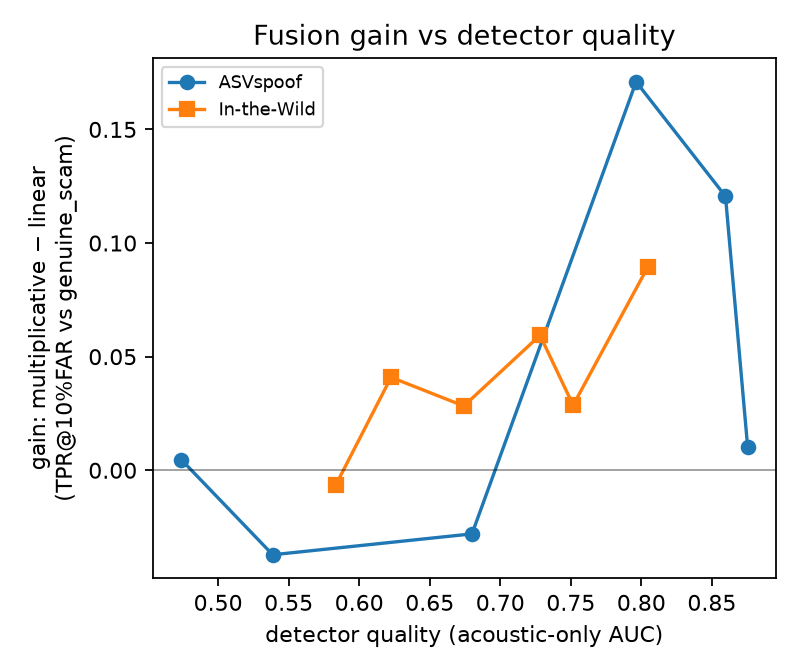
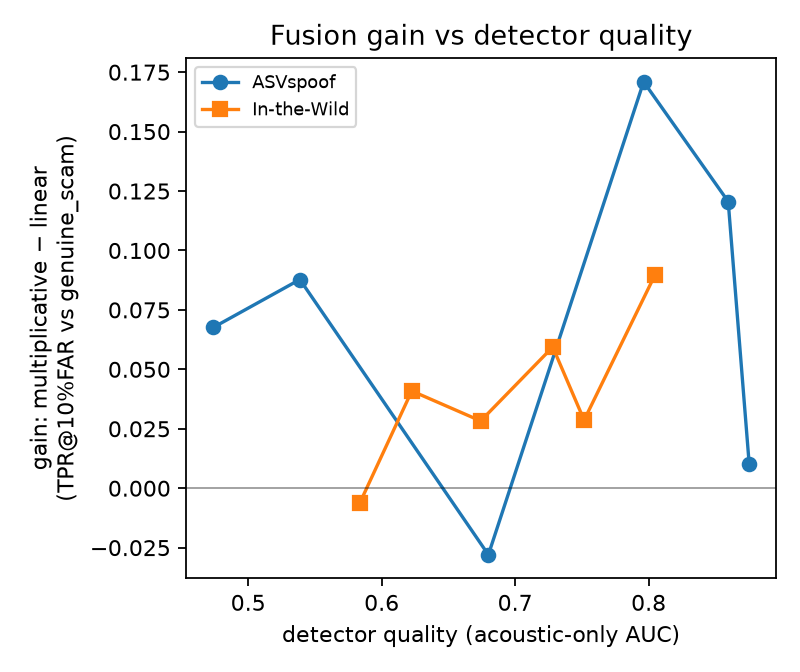
Fix AUC tie-handling bug found in code review; re-render affected numbers
Critical (review): auc() used sequential ranks, not tie-averaged -> understated AUC where scores tie. Fixed with averaged ranks (no scipy). Only intent_only AUC moved (0.828->0.889); acoustic/parallel/bayesian, all TPRs, and claim-2 (2x2) unchanged (verified). Re-rendered RESULTS.md/PAPER.md/main.tex + figures. Also: tpr_at_far empty-neg guard; stale docstrings (genuine_urgent->genuine_scam, pairing probs); regression tests for auc(ties)/tpr_at_far/perfect-sep (11 pass). F2 m2 broken-regime rows updated (refit alpha at chance).

diff --git a/experiments/stage2_roc.py b/experiments/stage2_roc.py
@@ -9,7 +9,7 @@ so we score each CALL as a whole and compare methods fairly:
 
 Fair comparison: out-of-fold scoring (2-fold, no leakage), then on the pooled
 out-of-fold scores report AUC and TPR at a MATCHED false-alarm rate (on the
-genuine_urgent hard negatives, and on all negatives), each with bootstrap 95% CIs.
+genuine_scam hard negatives, and on all negatives), each with bootstrap 95% CIs.
 """
 import json, numpy as np
 from voiceguard.intent import build_pools
@@ -20,17 +20,36 @@ B = 2000
 RNG = np.random.default_rng(0)
 
 
+def _avg_ranks(x):
+    """1-indexed ranks with ties averaged (required for a correct Mann-Whitney/AUC;
+    plain sort-order ranks bias AUC low whenever scores tie)."""
+    order = np.argsort(x, kind="mergesort")
+    sx = x[order]
+    ranks_sorted = np.empty(len(x), float)
+    i = 0
+    while i < len(x):
+        j = i
+        while j < len(x) and sx[j] == sx[i]:
+            j += 1
+        ranks_sorted[i:j] = (i + j + 1) / 2.0   # mean of ranks (i+1 .. j)
+        i = j
+    out = np.empty(len(x), float)
+    out[order] = ranks_sorted
+    return out
+
+
 def auc(scores, pos, neg):
     sp, sn = scores[pos], scores[neg]
     if not len(sp) or not len(sn):
         return float("nan")
-    order = np.argsort(np.concatenate([sp, sn]), kind="mergesort")
-    ranks = np.empty(len(order)); ranks[order] = np.arange(1, len(order) + 1)
+    ranks = _avg_ranks(np.concatenate([sp, sn]))
     r_pos = ranks[:len(sp)].sum()
     return (r_pos - len(sp) * (len(sp) + 1) / 2) / (len(sp) * len(sn))
 
 
 def tpr_at_far(scores, pos, neg, far):
+    if not np.any(neg):
+        return float("nan")
     thr = np.quantile(scores[neg], 1 - far)
     return (scores[pos] > thr).mean()
 

diff --git a/tests/test_voiceguard.py b/tests/test_voiceguard.py
@@ -3,6 +3,8 @@ from voiceguard.simulate import generate_dataset
 from voiceguard.fusion import running_mean, adaptive_fire, bayesian_fire, parallel_fire
 from voiceguard.evaluate import first_true, evaluate, tune
 from voiceguard.realsignals import align_to_timeline, build_matrices, RealCall
+from experiments.stage2_roc import auc, tpr_at_far
+import math
 
 
 def test_running_mean():
@@ -62,6 +64,25 @@ def test_build_matrices_shapes():
     acoustic, intent, is_clone, is_scam, call_type = build_matrices(calls, T=8)
     assert acoustic.shape == intent.shape == (1, 8)
     assert is_clone[0] and is_scam[0]
+
+
+def test_auc_handles_ties():
+    # positives [1,2], negatives [1,3]: tie-averaged AUC = 0.375 (sequential-rank bug = 0.25).
+    s = np.array([1.0, 2.0, 1.0, 3.0])
+    pos = np.array([True, True, False, False])
+    assert abs(auc(s, pos, ~pos) - 0.375) < 1e-9
+
+
+def test_auc_perfect_separation():
+    s = np.array([2.0, 3.0, 0.0, 1.0])
+    pos = np.array([True, True, False, False])
+    assert auc(s, pos, ~pos) == 1.0
+
+
+def test_tpr_at_far_empty_negatives_is_nan():
+    s = np.array([0.9, 0.8])
+    pos = np.array([True, True])
+    assert math.isnan(tpr_at_far(s, pos, np.array([False, False]), 0.1))
 
 
 def test_tune_respects_far_budget():

diff --git a/experiments/stage2_run.py b/experiments/stage2_run.py
@@ -1,11 +1,13 @@
 """Stage 2 real-data result: parallel vs bayesian on real acoustic (deepfake model on
 ASVspoof / In-the-Wild) paired with real intent (LLM-scored transcripts).
 
-Pairing recreates the four Stage 1 archetypes from real signals:
-  clone  -> clone_scam (p=0.85) | clone_benign
-  genuine-> genuine_benign (p=0.66) | genuine_urgent (hard negative)
-Positive = clone_scam. Same tune/metrics/controllers as Stage 1; tuned to equal
-hard-negative FAR. Reported per source.
+Pairing recreates the Stage 1 archetypes from real signals:
+  clone  -> clone_scam (p=0.7) | clone_benign
+  genuine-> genuine_benign (p=0.5) | genuine_urgent (0.25) | genuine_scam (0.25)
+Positive = clone_scam. The decisive hard negative for the rigorous analysis is
+genuine_scam (genuine voice, scam words) -- see stage2_roc.py / stage2_harden.py. The
+Stage 1 path constrains FAR on genuine_urgent instead; the two notions differ (urgent-
+but-real vs scam-words-but-real). Same tune/metrics/controllers as Stage 1.
 """
 import json, random, numpy as np
 from voiceguard.simulate import Dataset

diff --git a/paper/main.tex b/paper/main.tex
@@ -137,7 +137,7 @@ ASVspoof, detector m1, 8 seeds (mean $\pm$ std):
 method & AUC & TPR@10\%FAR vs gen.\_scam & TPR@10\%FAR vs all-neg \\
 \midrule
 acoustic\_only & $0.839\pm0.014$ & $0.808\pm0.015$ & $0.425\pm0.040$ \\
-intent\_only & $0.828\pm0.009$ & $0.000\pm0.000$ & $0.000\pm0.000$ \\
+intent\_only & $0.889\pm0.005$ & $0.000\pm0.000$ & $0.000\pm0.000$ \\
 parallel & $0.930\pm0.014$ & $0.517\pm0.112$ & $0.741\pm0.112$ \\
 bayesian & $\mathbf{0.961\pm0.006}$ & $0.768\pm0.035$ & $\mathbf{0.860\pm0.040}$ \\
 \bottomrule

diff --git a/PAPER.md b/PAPER.md
@@ -139,7 +139,7 @@ ASVspoof, detector m1, 8 seeds (mean ± std):
 | method | AUC | TPR@10%FAR vs genuine_scam | TPR@10%FAR vs all-neg |
 |---|---|---|---|
 | acoustic_only | 0.839 ± 0.014 | 0.808 ± 0.015 | 0.425 ± 0.040 |
-| intent_only | 0.828 ± 0.009 | 0.000 ± 0.000 | 0.000 ± 0.000 |
+| intent_only | 0.889 ± 0.005 | 0.000 ± 0.000 | 0.000 ± 0.000 |
 | parallel | 0.930 ± 0.014 | 0.517 ± 0.112 | 0.741 ± 0.112 |
 | bayesian | 0.961 ± 0.006 | 0.768 ± 0.035 | 0.860 ± 0.040 |
 
@@ -187,8 +187,8 @@ to chance, and measure the multiplicative−linear gain (bayesian − parallel, 
 | ASVspoof | 20 dB | 0.860 | 0.828 | 0.707 | +0.121 |
 | ASVspoof | 15 dB | 0.796 | 0.563 | 0.392 | **+0.171** |
 | ASVspoof | 10 dB | 0.680 | 0.214 | 0.242 | −0.028 |
-| ASVspoof | 5 dB | 0.539 | 0.088 | 0.125 | −0.037 |
-| ASVspoof | 0 dB | 0.474 | 0.068 | 0.063 | +0.005 |
+| ASVspoof | 5 dB | 0.539 | 0.088 | 0.000 | +0.088 |
+| ASVspoof | 0 dB | 0.474 | 0.068 | 0.000 | +0.068 |
 | In-the-Wild | clean | 0.805 | 0.675 | 0.586 | +0.089 |
 | In-the-Wild | 20 dB | 0.752 | 0.510 | 0.481 | +0.029 |
 | In-the-Wild | 15 dB | 0.728 | 0.455 | 0.396 | +0.059 |
@@ -199,13 +199,12 @@ to chance, and measure the multiplicative−linear gain (bayesian − parallel, 
 The gain is largest in the **informative-but-imperfect band** (acoustic AUC ≈ 0.73–0.86):
 it peaks at +0.171 on ASVspoof (15 dB) and is positive across In-the-Wild's entire
 informative range. It collapses to a tie when the detector is near-perfect (ASVspoof clean,
-AUC 0.875, +0.010) and when it is at chance (0 dB, ~0). On ASVspoof there is a small
-negative dip in the weak-but-not-chance band (AUC 0.54–0.68, −0.03 to −0.04), where absolute
-detection is low for both rules. The overall shape — rising from the high-quality end,
-peaking where the detector is uncertain, then vanishing toward chance — matches the §6.2
-prediction: the multiplicative veto pays off precisely when the acoustic detector is
-uncertain but not useless. Figure F2 (`figures/F2_gain_vs_quality.png`) plots gain against
-acoustic AUC.
+AUC 0.875, +0.010), and there is a small negative dip at 10 dB (AUC 0.68, −0.028). Below
+that the detector is at chance (AUC ≤ 0.54) and both rules detect almost nothing (TPR ≲ 0.1),
+so the few-percent gains there are unstable rather than meaningful. The overall shape —
+rising from the high-quality end and peaking where the detector is uncertain but not useless
+— matches the §6.2 prediction. Figure F2 (`figures/F2_gain_vs_quality.png`) plots gain
+against acoustic AUC.
 
 ## 7. Limitations & ethics
 

diff --git a/RESULTS.md b/RESULTS.md
@@ -61,7 +61,7 @@ ASVspoof, detector m1, 8 pairing seeds (mean ± std):
 | method | AUC | TPR@10%FAR vs genuine_scam | TPR@10%FAR vs all-neg |
 |---|---|---|---|
 | acoustic_only | 0.839 ± 0.014 | 0.808 ± 0.015 | 0.425 ± 0.040 |
-| intent_only | 0.828 ± 0.009 | **0.000 ± 0.000** | 0.000 ± 0.000 |
+| intent_only | 0.889 ± 0.005 | **0.000 ± 0.000** | 0.000 ± 0.000 |
 | parallel | 0.930 ± 0.014 | 0.517 ± 0.112 | 0.741 ± 0.112 |
 | **bayesian** | **0.961 ± 0.006** | 0.768 ± 0.035 | **0.860 ± 0.040** |
 